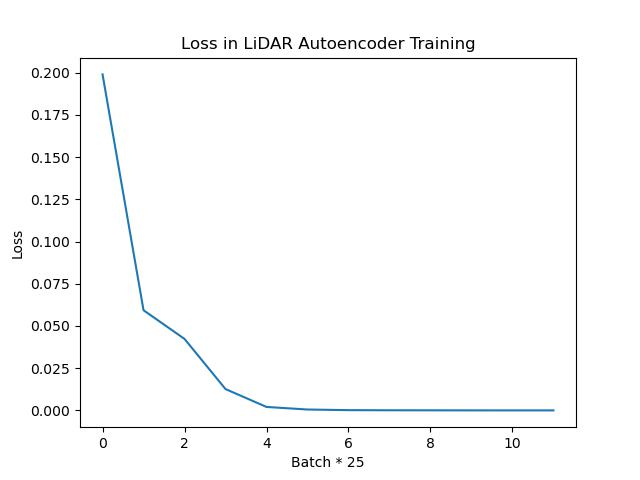
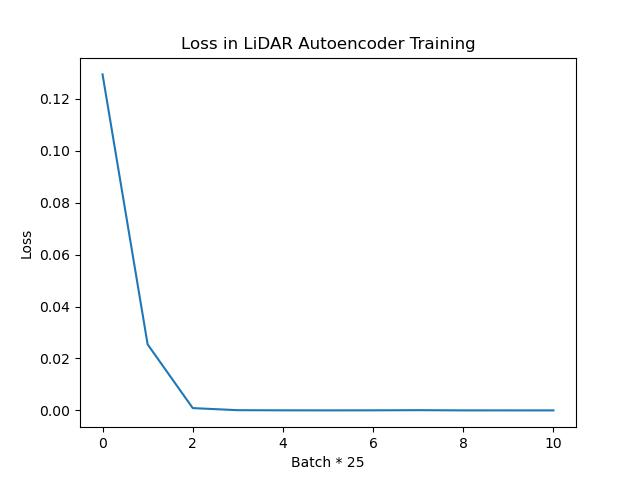
training code and saving model for lidar based autoencoder

diff --git a/models/train_lidar_ae.py b/models/train_lidar_ae.py
@@ -24,7 +24,8 @@ optimizer = optim.Adam(lidar_ae.parameters(), lr = 1e-3, betas = (0.9, 0.99))
 
 
 cpu_override = False
-epochs = 5
+epochs = 1
+field = 'hips_both_years'
 
 # get number of model params:
 total_params = sum(p.numel() for p in lidar_ae.parameters())
@@ -44,46 +45,51 @@ if cpu_override:
     device = torch.device("cpu")
     lidar_ae = lidar_ae.to("cpu")
 
-training_data = FeaturesDataset(field = 'hips_2021', train=True, test=False, load_individual=True, load_series = False, debug=False)
+training_data = FeaturesDataset(field = field, train=True, test=False, load_individual=True, load_series = False, debug=False)
 training_dataloader = torch.utils.data.DataLoader(training_data, batch_size=1, num_workers = 0, drop_last=False)
 
 criterion = nn.MSELoss()
 running_loss = []
 total_loss = 0
 
-for n, data in enumerate(training_dataloader):
-    # reset gradients
-    optimizer.zero_grad()
-    
-    # unpack data:
-    hyp_data, GT, freq, point_cloud = data
+for epoch in range(epochs):
+    for n, data in enumerate(training_dataloader):
+        # reset gradients
+        optimizer.zero_grad()
+        
+        # unpack data:
+        hyp_data, GT, freq, point_cloud = data
 
-    # make point_cloud have float32 precision for nn.Linear operation and to run on Mac GPU
-    point_cloud = point_cloud.to(torch.float32)
-    point_cloud = point_cloud.to(device)
+        # make point_cloud have float32 precision for nn.Linear operation and to run on Mac GPU
+        point_cloud = point_cloud.to(torch.float32)
+        point_cloud = point_cloud.to(device)
 
-    output = lidar_ae(point_cloud)
+        output = lidar_ae(point_cloud)
 
-    # compute loss: MSE on original point cloud and predicted point cloud in the decoder.
+        # compute loss: MSE on original point cloud and predicted point cloud in the decoder.
 
-    loss = criterion(output, point_cloud) # criterion(input, target)  
+        loss = criterion(output, point_cloud) # criterion(input, target)  
 
-    # compute gradients wrt loss for each parameter
-    loss.backward()
+        # compute gradients wrt loss for each parameter
+        loss.backward()
 
-    # backpropogate loss:
-    optimizer.step()
+        # backpropogate loss:
+        optimizer.step()
 
-    total_loss += loss.item()
+        total_loss += loss.item()
 
-    if (n + 1) % 25 == 0:
-        avg_loss = total_loss / 25
-        print('avg loss in epoch currently is', avg_loss)
-        running_loss.append(avg_loss)
-        total_loss = 0
+        if (n + 1) % 50 == 0:
+            avg_loss = total_loss / 50
+            print('avg loss in epoch', epoch, ' currently is', avg_loss)
+            running_loss.append(avg_loss)
+            total_loss = 0
 
 plt.plot(running_loss)
 plt.title("Loss in LiDAR Autoencoder Training")
 plt.xlabel("Batch * 25")
 plt.ylabel("Loss")
 plt.savefig("LiDAR_AE_loss.jpg")
+
+# save the model:
+torch.save(lidar_ae.state_dict(), 'trained_lidar_autoencoder_model_' + field + '.pth')
+print('model saved')

diff --git a/models/models.py b/models/models.py
@@ -364,14 +364,19 @@ class LiDARAE(nn.Module):
 
         latent_dim = 32
 
+        # encoder ops
         self.fc1 = nn.Linear(3, 128)
-        self.relu = nn.ReLU()
         self.fc2 = nn.Linear(128, 64)
         self.fc3 = nn.Linear(64, latent_dim)
 
+        # decoder ops:
         self.fc4 = nn.Linear(latent_dim, 64)
         self.fc5 = nn.Linear(64, 128)
         self.fc6 = nn.Linear(128,3)
+
+        # activations
+        self.relu = nn.ReLU()
+
 
     def encoder(self, x):
         x = self.fc1(x)
@@ -379,6 +384,7 @@ class LiDARAE(nn.Module):
         x = self.fc2(x)
         x = self.relu(x)
         x = self.fc3(x)
+
         return x
 
     def decoder(self, x):
@@ -393,7 +399,7 @@ class LiDARAE(nn.Module):
     def forward(self, x):
         x = self.encoder(x)
         x = self.decoder(x)
-        return x       
+        return x
 
 
 class statistical_model():
